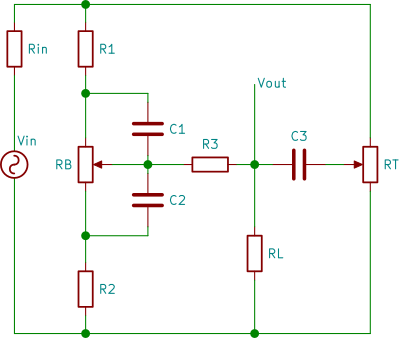
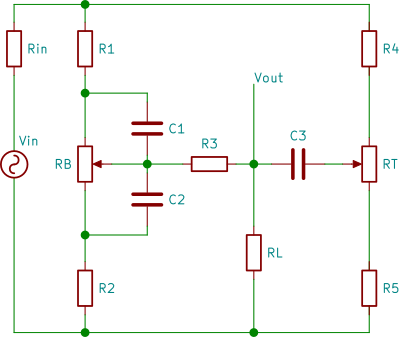
Add R4/R5 to passive Baxandall tone stack

diff --git a/baxandall_passive.htm b/baxandall_passive.htm
@@ -68,11 +68,6 @@
                         <td class="tonestack-value-unit">&Omega;</td>
                     </tr>
                     <tr>
-                        <td class="tonestack-value-label">RB</td>
-                        <td class="tonestack-value-value"><INPUT type="text" name="RB" id="id_RB" size="7" readonly="readonly" style="text-align: right" class="tonestack-value-input"></td>
-                        <td class="tonestack-value-unit">&Omega;</td>
-                    </tr>
-                    <tr>
                         <td class="tonestack-value-label">R2</td>
                         <td class="tonestack-value-value"><INPUT type="text" name="R2" id="id_R2" size="7" readonly="readonly" style="text-align: right" class="tonestack-value-input"></td>
                         <td class="tonestack-value-unit">&Omega;</td>
@@ -83,13 +78,28 @@
                         <td class="tonestack-value-unit">&Omega;</td>
                     </tr>
                     <tr>
-                        <td class="tonestack-value-label">RL</td>
-                        <td class="tonestack-value-value"><INPUT type="text" name="RL" id="id_RL" size="7" readonly="readonly" style="text-align: right" class="tonestack-value-input"></td>
+                        <td class="tonestack-value-label">R4</td>
+                        <td class="tonestack-value-value"><INPUT type="text" name="R4" id="id_R4" size="7" readonly="readonly" style="text-align: right" class="tonestack-value-input"></td>
+                        <td class="tonestack-value-unit">&Omega;</td>
+                    </tr>
+                    <tr>
+                        <td class="tonestack-value-label">R5</td>
+                        <td class="tonestack-value-value"><INPUT type="text" name="R5" id="id_R5" size="7" readonly="readonly" style="text-align: right" class="tonestack-value-input"></td>
+                        <td class="tonestack-value-unit">&Omega;</td>
+                    </tr>
+                    <tr>
+                        <td class="tonestack-value-label">RB</td>
+                        <td class="tonestack-value-value"><INPUT type="text" name="RB" id="id_RB" size="7" readonly="readonly" style="text-align: right" class="tonestack-value-input"></td>
                         <td class="tonestack-value-unit">&Omega;</td>
                     </tr>
                     <tr>
                         <td class="tonestack-value-label">RT</td>
                         <td class="tonestack-value-value"><INPUT type="text" name="RT" id="id_RT" size="7" readonly="readonly" style="text-align: right" class="tonestack-value-input"></td>
+                        <td class="tonestack-value-unit">&Omega;</td>
+                    </tr>
+                    <tr>
+                        <td class="tonestack-value-label">RL</td>
+                        <td class="tonestack-value-value"><INPUT type="text" name="RL" id="id_RL" size="7" readonly="readonly" style="text-align: right" class="tonestack-value-input"></td>
                         <td class="tonestack-value-unit">&Omega;</td>
                     </tr>
                     <tr>
@@ -160,6 +170,8 @@
     var R1;
     var R2;
     var R3;
+    var R4;
+    var R5;
     var C1;
     var C2;
     var C3;
@@ -193,6 +205,8 @@
         RBass   = parseInt(document.frm.RB.value);
         R2      = parseInt(document.frm.R2.value);
         R3      = parseInt(document.frm.R3.value);
+        R4      = parseInt(document.frm.R4.value);
+        R5      = parseInt(document.frm.R5.value);
         RTreble = parseInt(document.frm.RT.value);
         RL      = parseInt(document.frm.RL.value);
         C1      = (1e-12)*parseInt(document.frm.C1.value);
@@ -228,9 +242,11 @@
     function setDefaultValues() {
         document.frm.RIN.value = 38000;
         document.frm.R1.value  = 100000;
-        document.frm.RB.value  = 500000;
         document.frm.R2.value  = 10000;
         document.frm.R3.value  = 180000;
+        document.frm.R4.value  = 10000;
+        document.frm.R5.value  = 10000;
+        document.frm.RB.value  = 500000;
         document.frm.RT.value  = 500000;
         document.frm.RL.value  = 1000000;
         document.frm.C1.value  = 470;
@@ -269,8 +285,8 @@
 
         var RB2  = Math.round( RBass*(1.0*RotBass/10.0) );
         var RB1  = Math.round( RBass*(1.0 - 1.0*RotBass/10.0) );
-        var RT2  = Math.round( RTreble*(1.0*RotTreble/10.0) );
-        var RT1  = Math.round( RTreble*(1.0 - 1.0*RotTreble/10.0) );
+        var RT2  = R5 + Math.round( RTreble*(1.0*RotTreble/10.0) );
+        var RT1  = R4 + Math.round( RTreble*(1.0 - 1.0*RotTreble/10.0) );
 
 
         var DEN_XRe = 0;
